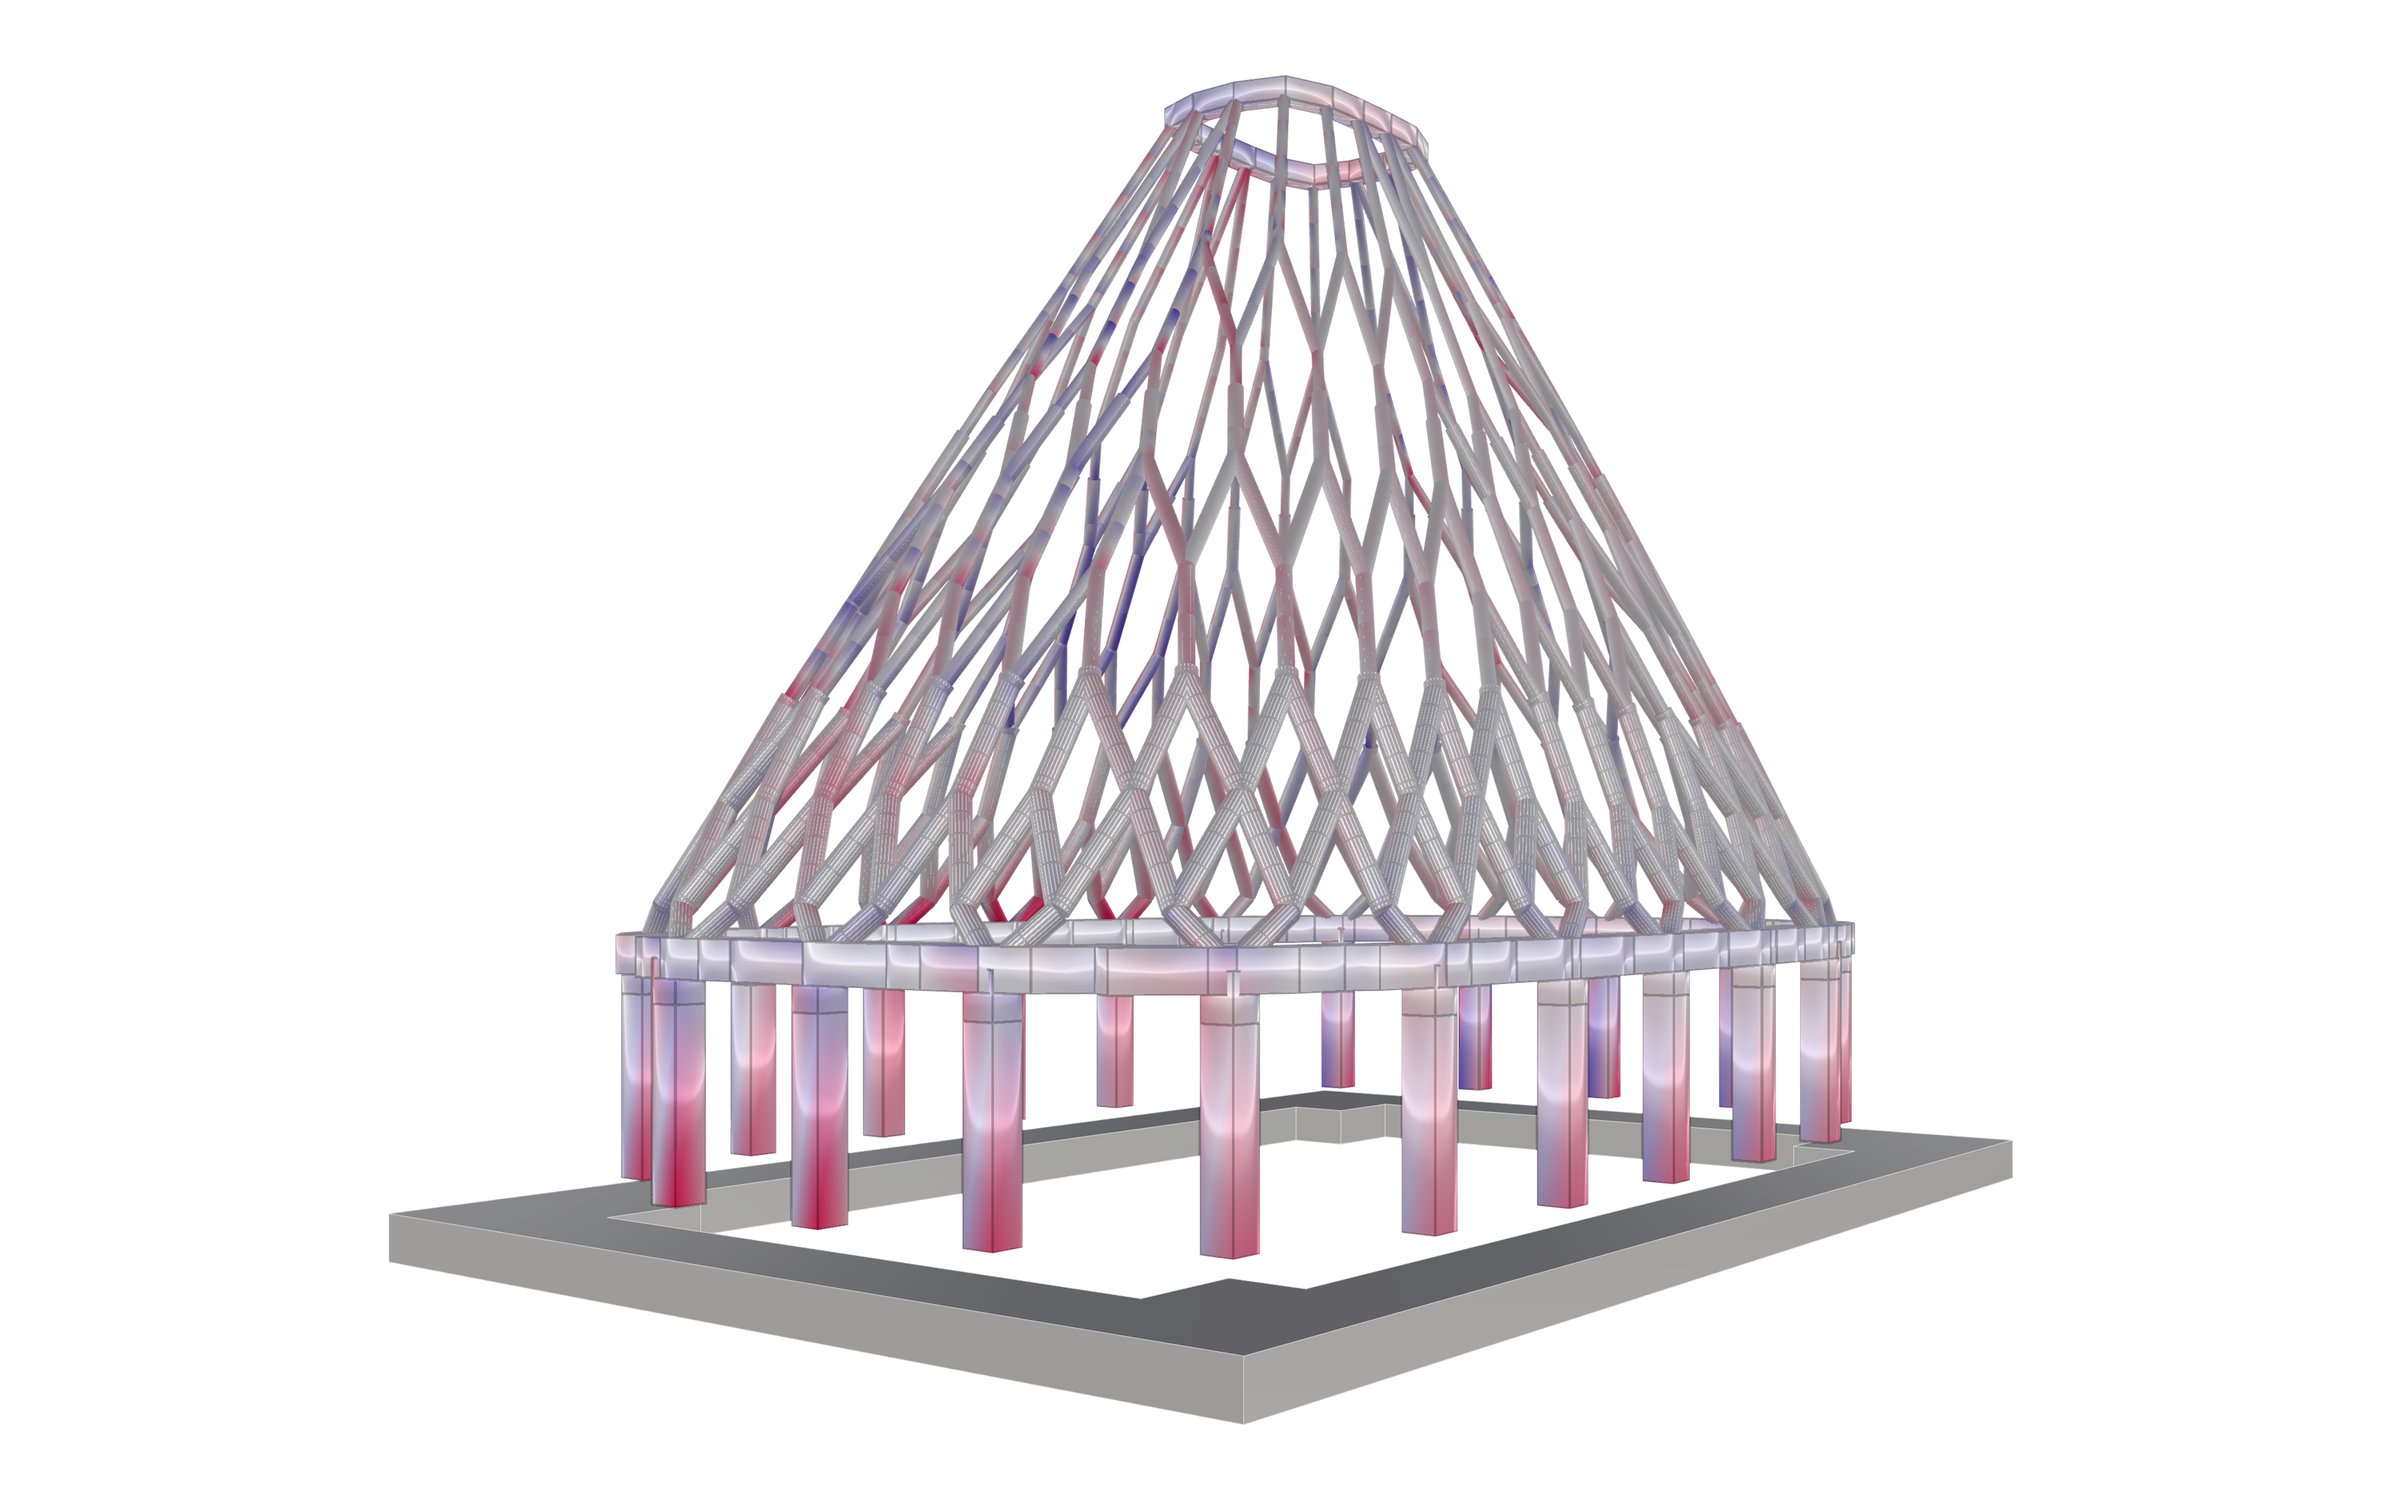
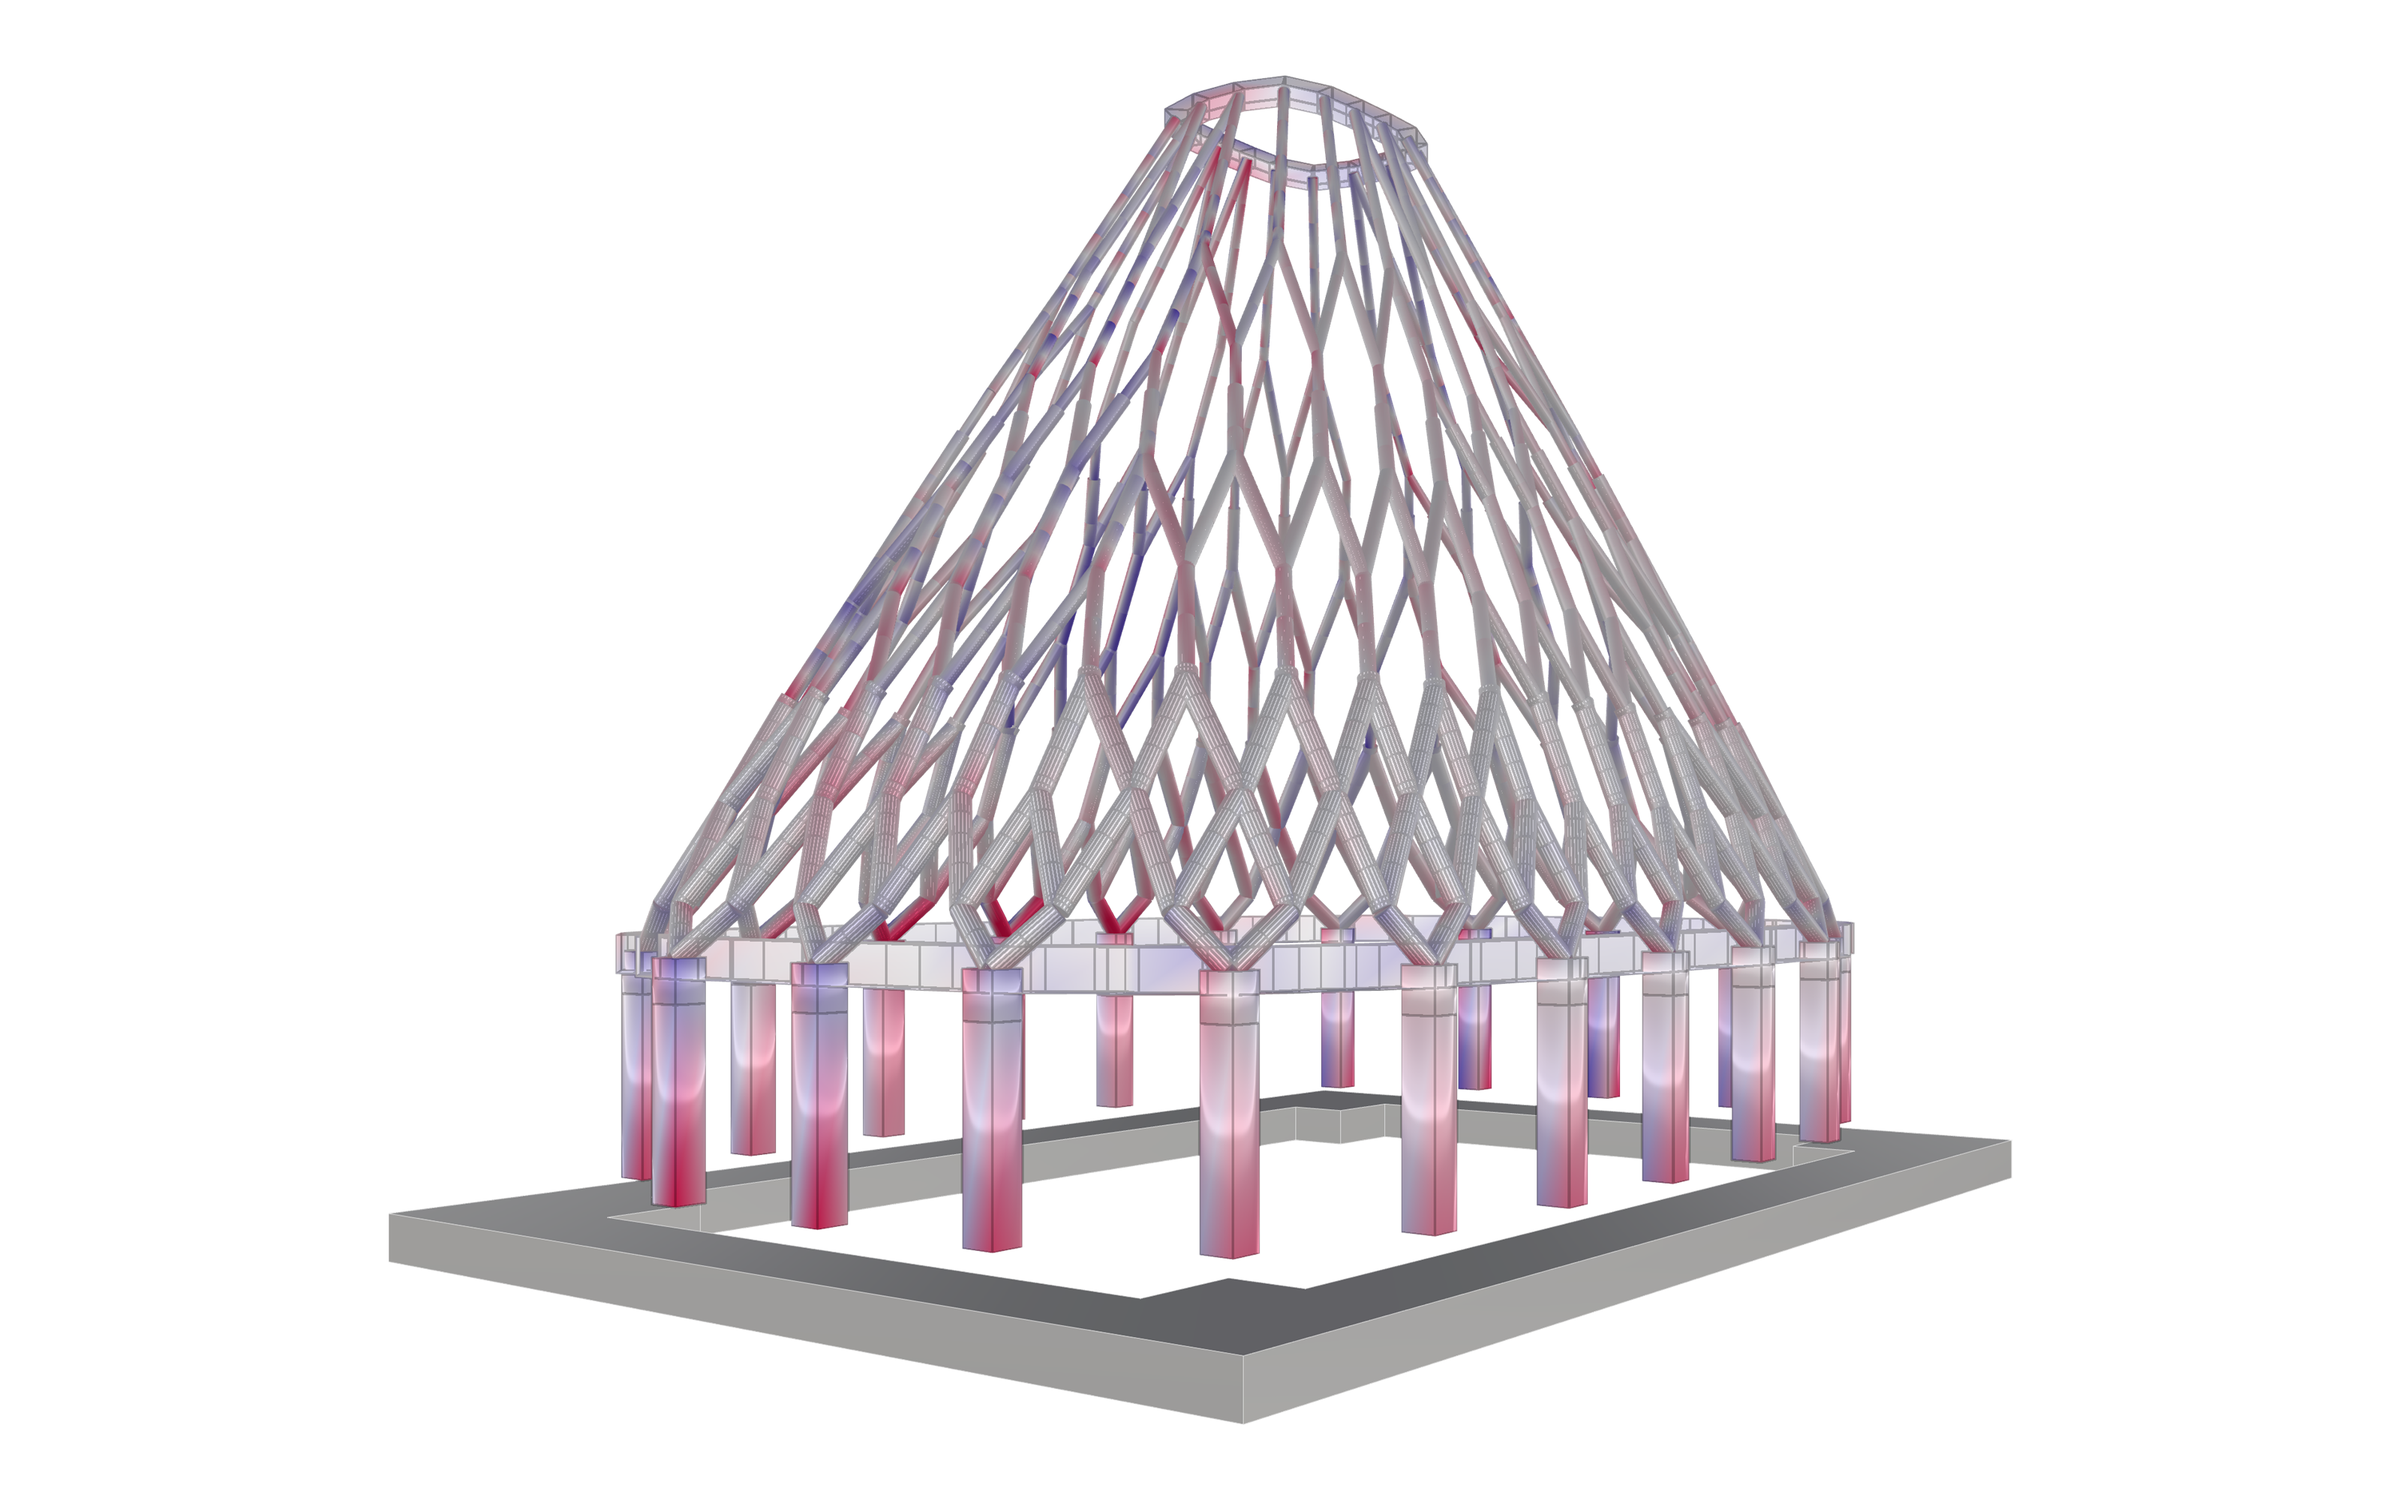
Karamba-model renders: base and crown rings welded into one smooth beam each

Changed region(s): [[0.25, 0.465, 0.7812, 0.682], [0.4688, 0.031, 0.5938, 0.124]]

diff --git a/details/karamba/2026-11-23/k_mitre_rings.py b/details/karamba/2026-11-23/k_mitre_rings.py
@@ -39,9 +39,16 @@ def build(doc, roof, lc, lim, layer_index, sect=None):
     N, E, F = D["nodes"], D["els"], D["forces"][lc]
     S = sect or SECT[roof]
     groups = {g: [i for i, e in enumerate(E) if e[0] == g] for g in ("ring", "crown", "column")}
+    att0 = Rhino.DocObjects.ObjectAttributes(); att0.LayerIndex = layer_index
+    done = set()
+    for g in ("ring", "crown"):
+        for mesh in loops(N, E, F, groups[g], S[g], lim):
+            doc.Objects.AddMesh(mesh, att0)
+        done.add(g)
     att = Rhino.DocObjects.ObjectAttributes(); att.LayerIndex = layer_index
     count = 0
     for g, ids in groups.items():
+        if g in done: continue
         b, h = S[g]; A = b * h; Iy = b * h ** 3 / 12; Iz = h * b ** 3 / 12
         at = {}
         for i in ids:
@@ -78,3 +85,75 @@ def build(doc, roof, lc, lim, layer_index, sect=None):
             m.Normals.ComputeNormals(); m.Compact()
             doc.Objects.AddMesh(m, att); count += 1
     return count
+
+
+def loops(N, E, F, ids, sect, lim):
+    """ring / crown as closed loops, welded: walk each loop in order; at every node the four section corners are
+    computed once on the bisector (mitre) plane and shared by the two segments; each of the four faces of the box is
+    one strip mesh along the whole loop with shared vertices, so the normals average across the joints (smooth along
+    the ring, crisp at the box edges). Colour at a node corner = mean of the two segment ends' Karamba stress there."""
+    b, h = sect; A = b * h; Iy = b * h ** 3 / 12; Iz = h * b ** 3 / 12
+    corners = [(-b / 2, -h / 2), (b / 2, -h / 2), (b / 2, h / 2), (-b / 2, h / 2)]
+    at = {}
+    for i in ids:
+        for n in E[i][1:3]: at.setdefault(n, []).append(i)
+    left = set(ids); out = []
+    while left:
+        i0 = left.pop(); seq = [i0]
+        a0, b0 = E[i0][1], E[i0][2]; nodes = [a0, b0]; cur = b0; prev = i0
+        while True:
+            nxt = [j for j in at[cur] if j != prev and j in left]
+            if len(at[cur]) != 2 or not nxt: break
+            j = nxt[0]; left.discard(j); seq.append(j)
+            cur = E[j][2] if E[j][1] == cur else E[j][1]; nodes.append(cur); prev = j
+        closed = nodes[0] == nodes[-1] and len(at[nodes[0]]) == 2
+        pts = [G.Point3d(*N[n]) for n in nodes]
+        nseg = len(seq)
+        def seg_dir(k):
+            v = pts[k + 1] - pts[k]; v.Unitize(); return v
+        def frame(x):
+            z = G.Vector3d.ZAxis - x * x.Z; z.Unitize(); return G.Vector3d.CrossProduct(z, x), z
+        P = []; C = []
+        for k in range(len(nodes)):
+            if closed and k == len(nodes) - 1:
+                P.append(P[0]); C.append(C[0]); continue
+            xin = seg_dir(k - 1) if k > 0 else (seg_dir(nseg - 1) if closed else None)
+            xout = seg_dir(k) if k < nseg else None
+            if xin is None: xin = xout
+            if xout is None: xout = xin
+            t = xin + xout; t.Unitize()                     # tangent at the node; mitre plane normal
+            y, z = frame(t)
+            ym, zm = [], []
+            # section corners on the mitre plane: offset in the bisector frame, scaled so the faces stay parallel
+            cosh = max(0.2, xin * t)
+            P.append([pts[k] + y * (cy / cosh) + z * cz for (cy, cz) in corners])
+            # stresses from the two segment ends meeting here (Karamba local y flips if the bar runs against the walk)
+            ss = []
+            for kk, end_is_b in ((k - 1, True), (k, False)):
+                kk = kk % nseg if closed else kk
+                if kk < 0 or kk >= nseg: continue
+                i = seq[kk]; na = E[i][1]
+                walk_a = nodes[kk]; same = (na == walk_a)
+                t_end = (1 if end_is_b else 0) if same else (0 if end_is_b else 1)
+                sgn = 1 if same else -1
+                Nn = F["N"][2 * i + t_end]; My = F["My"][2 * i + t_end]; Mz = F["Mz"][2 * i + t_end]
+                ss.append([(Nn / A + My * cz / Iy - Mz * (sgn * cy) / Iz) / 10000.0 for (cy, cz) in corners])
+            C.append([kcol(sum(v[c] for v in ss) / len(ss), lim) for c in range(4)])
+        m = G.Mesh()
+        K = len(nodes) - 1 if closed else len(nodes)       # closed: the last node is the first, so wrap round
+        for side in range(4):
+            s2 = (side + 1) % 4; base = m.Vertices.Count
+            for k in range(K):
+                m.Vertices.Add(P[k][side]); m.VertexColors.Add(C[k][side])
+                m.Vertices.Add(P[k][s2]); m.VertexColors.Add(C[k][s2])
+            for k in range(K if closed else K - 1):
+                q = base + 2 * k; q2 = base + 2 * ((k + 1) % K)
+                m.Faces.AddFace(q, q2, q2 + 1, q + 1)
+        if not closed:
+            for k in (0, len(nodes) - 1):
+                base = m.Vertices.Count
+                for c in range(4): m.Vertices.Add(P[k][c]); m.VertexColors.Add(C[k][c])
+                m.Faces.AddFace(base, base + 1, base + 2, base + 3) if k else m.Faces.AddFace(base + 3, base + 2, base + 1, base)
+        m.Normals.ComputeNormals(); m.UnifyNormals(); m.Normals.ComputeNormals()
+        out.append(m)
+    return out
